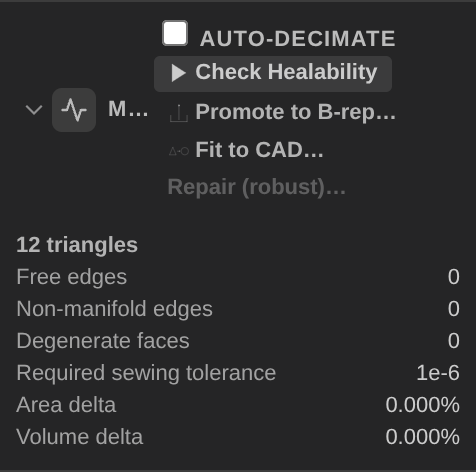
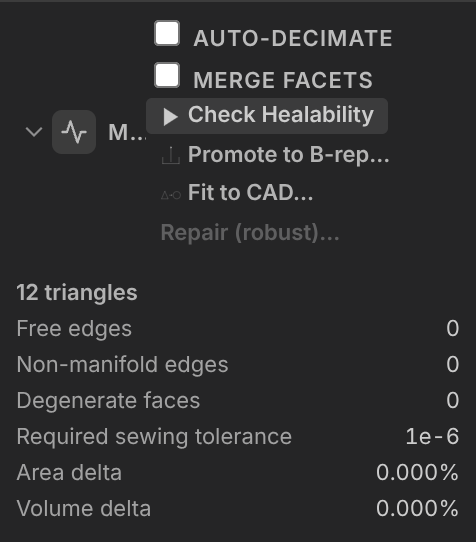
Show the Layer toggle only for parts that list edges; refresh the Mesh Health screenshot
A boundary layer grows along a part's wall edges, so its toggle (and the extra button that
squeezed part names, 'Contact faces' read 'Contac…') now appears only on a part with edge-N ids
or one that already carries a layer so it can still be cleared. The webview case asserts exactly
one toggle (on 'Feature edges'); bug-injecting an always-on toggle turns it red (3 checks).

mesh-health.png is regenerated for the new Merge facets checkbox (inspected). The other 32
screenshots the generator rewrites differ only by rasterization on this sandbox's Chromium
1194, so they are not committed.

Claude-Session: https://claude.ai/code/session_01L8bo1vbt2JVCjB42NcfdVc

diff --git a/src/webview/meshingPanel.ts b/src/webview/meshingPanel.ts
@@ -1428,6 +1428,9 @@ export class MeshingPanel {
       structToggle.classList.toggle("active", part.meshStructured != null);
       row.appendChild(structToggle);
 
+      // A boundary layer grows along a part's wall EDGES, so its toggle only exists for a part that lists some
+      // (or already carries a layer, so it can still be cleared) — everyone else keeps the two-button row.
+      const hasLayerTarget = part.lines.length > 0 || part.meshBoundaryLayer != null;
       const layerToggle = document.createElement("button");
       layerToggle.type = "button";
       layerToggle.className = "meshing-part-layer-toggle";
@@ -1435,7 +1438,7 @@ export class MeshingPanel {
       layerToggle.title = "Anisotropic boundary layer along this part's edges: thin rows growing from the wall (B-rep sources, 2-D meshes only)";
       layerToggle.setAttribute("aria-expanded", "false");
       layerToggle.classList.toggle("active", part.meshBoundaryLayer != null);
-      row.appendChild(layerToggle);
+      if (hasLayerTarget) row.appendChild(layerToggle);
 
       this.partsBody.appendChild(row);
 
@@ -1459,15 +1462,17 @@ export class MeshingPanel {
         structToggle.setAttribute("aria-expanded", String(!nowHidden));
       });
 
-      const layerRow = this.buildPartBoundaryLayerRow(index, part.meshBoundaryLayer);
-      layerRow.hidden = true;
-      this.partsBody.appendChild(layerRow);
+      if (hasLayerTarget) {
+        const layerRow = this.buildPartBoundaryLayerRow(index, part.meshBoundaryLayer);
+        layerRow.hidden = true;
+        this.partsBody.appendChild(layerRow);
 
-      layerToggle.addEventListener("click", () => {
-        const nowHidden = !layerRow.hidden;
-        layerRow.hidden = nowHidden;
-        layerToggle.setAttribute("aria-expanded", String(!nowHidden));
-      });
+        layerToggle.addEventListener("click", () => {
+          const nowHidden = !layerRow.hidden;
+          layerRow.hidden = nowHidden;
+          layerToggle.setAttribute("aria-expanded", String(!nowHidden));
+        });
+      }
     });
   }
 

diff --git a/doc/getting-started.md b/doc/getting-started.md
@@ -626,7 +626,7 @@ While a mesh is generating or exporting, the panel shows **Cancel** beside Gener
 | **Coarser→finer slider** | The primary control: sets the target element size (`Mesh.MeshSizeMax`), log-scaled between bbox-diagonal/5 (coarsest) and /200 (finest). The readout shows the size and an estimated element **range**, computed from the displayed model's real volume and surface area in a model calibrated against real Gmsh runs (±25% on the calibration corpus); hover it for node count, a rough memory range, the confidence (`calibrated`, `rough` when the size is coarse relative to the part, `uncertain` with Part sizing/grading, hex-dominant or fTetWild) and the assumptions. A warning appears when the estimate exceeds ~1M elements, or your **Element budget (advisory)** from Advanced settings — it warns, never blocks. An open (non-watertight) mesh shows the size only: a volume count can't be estimated for it |
 | **Coarse / Medium / Fine** | One-click presets: element size = bbox diagonal / 10, / 20 (the default), / 50 |
 | **Saved presets** | (Sits beside **Engine**, with **Apply · Save… · Delete** on the PRESET label's own line.) Named, reusable option bundles (global settings only — Part sizing stays in the document): a picker over your own `cad-preview-mesh-presets.json` (beside the model, shared by every model in its folder) plus the built-in starters (`coarse-preview`, `balanced`, `fine-detail`, `robust-repair`). **Apply** writes the preset's options — sizes converted from its authored unit into mm — as the document's settings (nothing is generated); **Save current…** records the current options (prompts for a name); **Delete** removes your own preset (built-ins show no Delete button). Fields the preset's engine ignores are reported, not silently dropped; preset names describe density intent, never a mesh-quality guarantee. The same library is visible to `list_mesh_presets` / `apply_mesh_preset` headlessly. A preset may also carry an optional `stlExport` block (`targetCellSize`, `chordalFraction`, `angularDeg`, in the preset's unit) — the mesh-aware STL tolerance that `export_tessellated_stl`'s `preset` parameter applies; the three built-in Gmsh starters carry one matching their target size |
-| **Part sizes** | One size input per defined Part (visible once parts exist) — the only place a Part's target size is edited (shown to three significant figures; hover for the exact value); blank inherits the global size. A **Grade** toggle beside each part reveals a distance-graded band (Wall size / Far size / Near dist / Far dist): elements stay at the wall size within the near distance of the part's own entities, grow to the far size at the far distance, and stay there beyond it — for meshing toward a wall, unlike the flat size which only refines *inside* the part. A **Struct** toggle reveals a divisions input (nodes per meshed edge): a regular region meshes as an exact mapped grid instead of unstructured tets (a 3×4×5 box at 6 divisions is exactly 125 hexes); a non-regular region fails loudly at generate time, never silently unstructured. A **Layer** toggle reveals an anisotropic boundary layer (Wall / Ratio / Thickness / Quads) grown along the part's *edges* on a **2-D** mesh: the first row is the wall height and each further row is Ratio times thicker until Thickness is spent, and the row count is shown beside the inputs. Other mesh algorithms than Automatic, Delaunay, Frontal-Delaunay and Frontal-Delaunay for Quads are refused with a message, and a 3-D generate ignores the layer with a warning. B-rep sources only |
+| **Part sizes** | One size input per defined Part (visible once parts exist) — the only place a Part's target size is edited (shown to three significant figures; hover for the exact value); blank inherits the global size. A **Grade** toggle beside each part reveals a distance-graded band (Wall size / Far size / Near dist / Far dist): elements stay at the wall size within the near distance of the part's own entities, grow to the far size at the far distance, and stay there beyond it — for meshing toward a wall, unlike the flat size which only refines *inside* the part. A **Struct** toggle reveals a divisions input (nodes per meshed edge): a regular region meshes as an exact mapped grid instead of unstructured tets (a 3×4×5 box at 6 divisions is exactly 125 hexes); a non-regular region fails loudly at generate time, never silently unstructured. A **Layer** toggle (shown only for a part that lists edges, since the layer grows along them) reveals an anisotropic boundary layer (Wall / Ratio / Thickness / Quads) grown along the part's *edges* on a **2-D** mesh: the first row is the wall height and each further row is Ratio times thicker until Thickness is spent, and the row count is shown beside the inputs. Other mesh algorithms than Automatic, Delaunay, Frontal-Delaunay and Frontal-Delaunay for Quads are refused with a message, and a 3-D generate ignores the layer with a warning. B-rep sources only |
 | **Engine** | **Gmsh** (default) or **fTetWild** — an alternative volume mesher for a dirty mesh-format 3D source (holes, self-intersections, non-manifold edges) that Gmsh's own boundary reclassification rejects or silently produces no elements for. Under fTetWild, Size min / 2D-3D algorithm / Element order / Element shape / Optimize / STL angle are all greyed (unused); the size slider still applies, via fTetWild's own envelope/target-edge-length settings under Advanced, plus three optional flags: **manifold surface** (force a manifold boundary), **coarsen** (fewer, larger tets), and **no interior filter** (skip interior/exterior filtering — returns a hull fill, not the part interior; inspection only). Requesting fTetWild for a B-rep source or a non-3D dimension falls back to Gmsh automatically |
 | **Advanced settings** (collapsed) | The raw Gmsh options below — expand to reveal them ([shown here](/screenshots/fe-mesh-advanced.png)). The export row (format · unit · **Export**) always closes the panel, below this section |
 | **Dimension** | 1D (edges only), 2D (surface triangulation), or 3D (volume tetrahedralization) |
